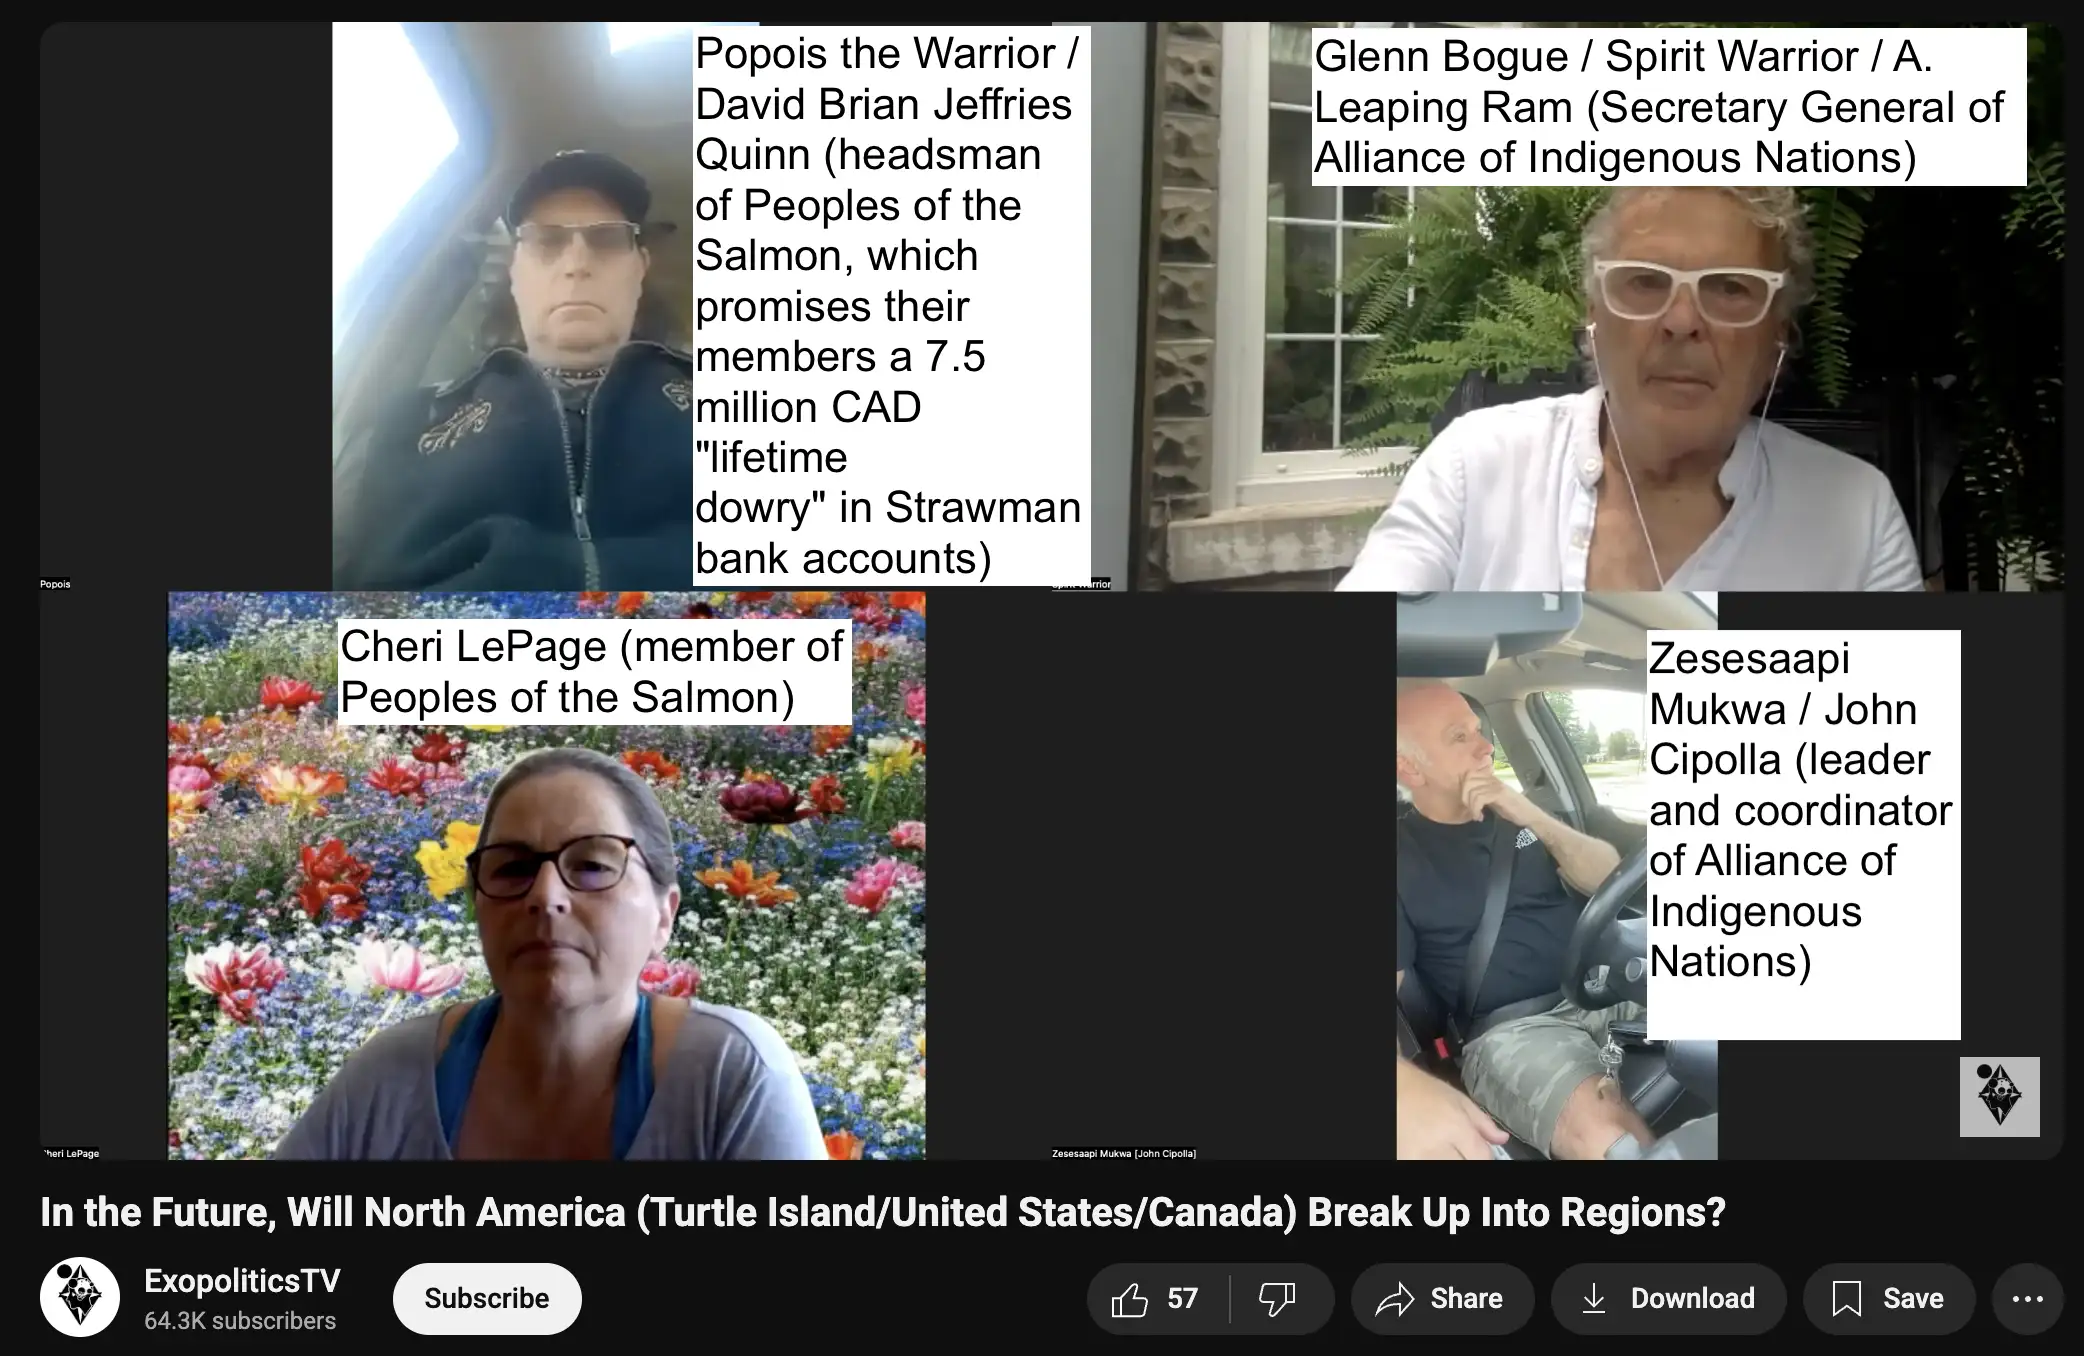
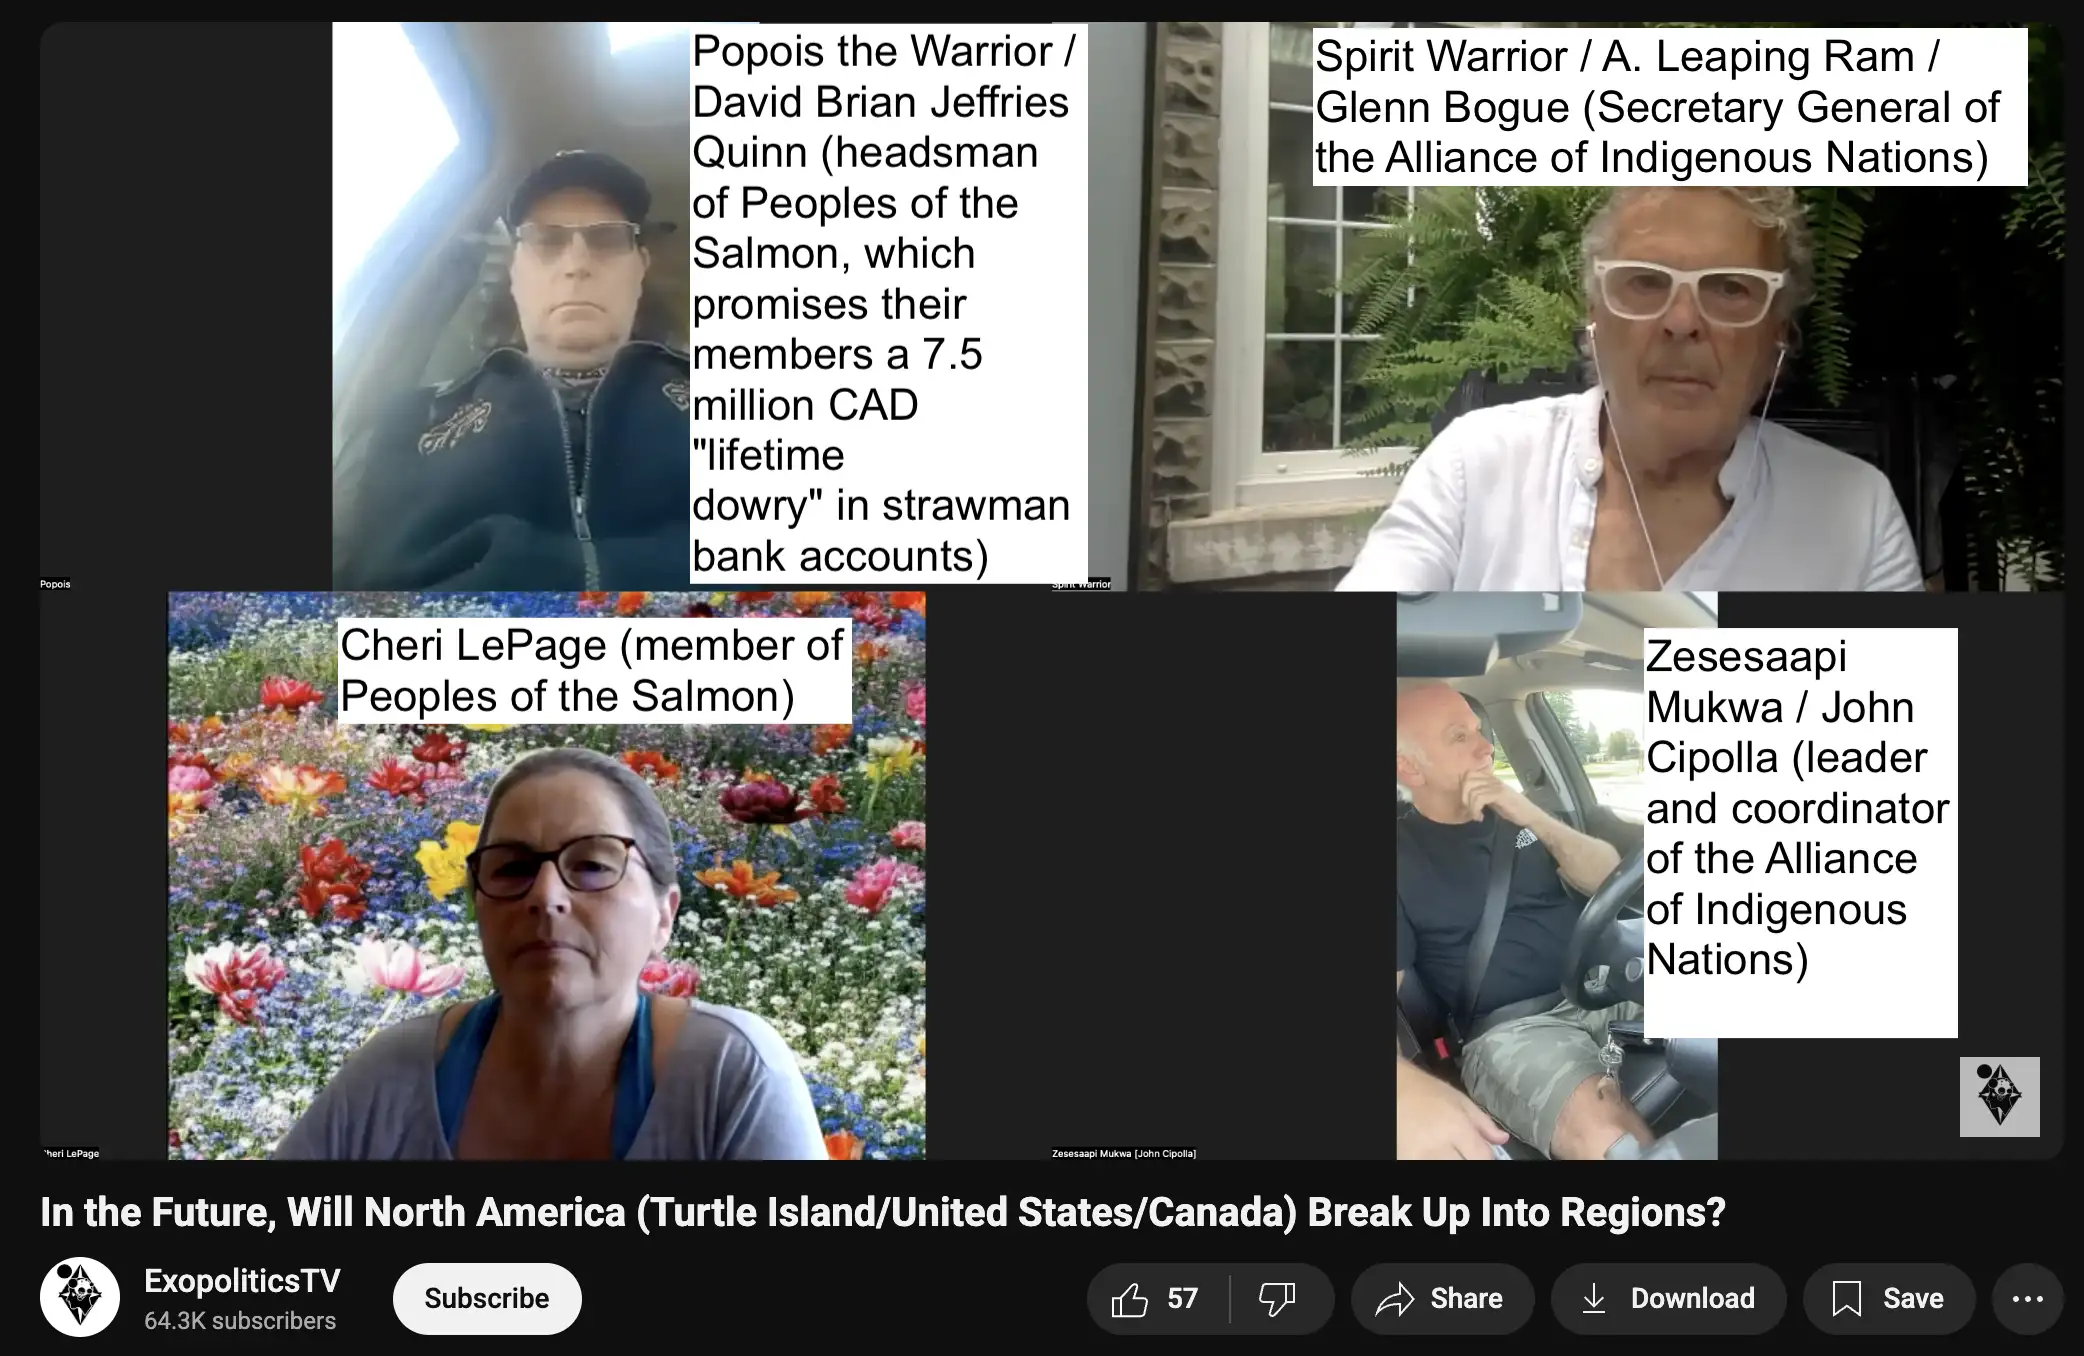
a

diff --git a/clot2.html b/clot2.html
@@ -3012,20 +3012,30 @@ mass destruction"</span>:
 <div>
 <img src=i/clot-ain-1.png width=600>
 </div>
-<p>The declaration by AIN sounded similar to Sansone's court case in
-Florida, because it featured expert opinions by Francis Boyle, Ana
-Mihalcea, Andrew Zywiec, Paul Alexander, and Rima Leibow, who all also
-provided testimony to Sansone's case. 3 out of 11 pages of the
-declaration were dedicated to the expert opinion of Ana Mihalcea, who
-said that vaccines contain quantum dots, nanorobots, microrobots, and
-hydrogel. Andrew Zywiec was called a <span class="quote">"tribal
-practicioner"</span> in the declaration.</p>
-<p>There was no author listed for the declaration, but I suspect it was
-written by Joe Sansone. The declaration was signed by <span
-class="quote">"A. Leaping Ram"</span> and by two other people whose
-names were not legible:</p>
+<p>Sansone wrote that the Alliance of Indigenous Nations International
+Tribunal issued the order <span class="quote">"after reviewing hundreds
+of pages of evidence from my current case, including scientific papers
+and legal briefs filed in the Florida court system, as well other
+scientific papers"</span>.
+[<a href=https://www.josephsansone.com/p/exclusive-breaking-news-alliance>https://www.josephsansone.com/p/exclusive-breaking-news-alliance</a>]</p>
+<p>The declaration by AIN looks similar to the documents in Sansone's
+court case in Florida, because it features expert opinions by Francis
+Boyle, Ana Mihalcea, Andrew Zywiec (who they called a <span
+class="quote">"tribal practicioner"</span>), Paul Alexander, and Rima
+Laibow, who all provided testimony to Sansone's case. 3 out of 11 pages
+of the declaration were dedicated to the expert opinion of Ana Mihalcea,
+who said that vaccines contain quantum dots, nanorobots, microrobots,
+and hydrogel. There was no author listed for the declaration, but I
+suspect one of its authors was Joe Sansone.</p>
+<p>The declaration was signed by <span class="quote">"A. Leaping
+Ram"</span> and by two other people whose names were not legible:</p>
 <div>
 <img src=i/clot-ain-2.png width=600>
+</div>
+<p>You can tell the declaration is the real deal, because it featured
+this seal by <span class="quote">"A. Leaping Ram"</span>:</p>
+<div>
+<img src=i/clot-ain-9.webp width=200>
 </div>
 <p>A Leaping Ram is a sovereign citizenship guru called Glenn Bogue, who
 is also known as <span class="quote">"Spirit Warrior"</span>. He is a
@@ -3083,11 +3093,11 @@ on consignment, while allegedly demanding 25% of the <span
 class="quote">'winnings'</span> for himself. June 2017, the Law Society
 suspended Bogue for <span class="quote">'vexatious conduct'</span>!</p>
 </blockquote>
-<p>John Cipolla has been called the <span
-class="quote">"prosecutor"</span> of AIN and <span class="quote">"leader
-and coordinator"</span> of AIN. He started calling himself Zesesaapi
-Mukwa after he was adopted by this guy, who calls himself the Grand
-Chief Wabiska Mukwa:
+<p>John Cipolla was called the <span class="quote">"prosecutor"</span>
+of AIN by one source and the <span class="quote">"leader and
+coordinator"</span> of AIN by another source. He took up the Indian name
+Zesesaapi Mukwa after he was adopted by this guy, who calls himself the
+Grand Chief Wabiska Mukwa:
 [<a href=https://allianceofindigenousnations.org/chief-wabiska-mukwas-important-message/>https://allianceofindigenousnations.org/chief-wabiska-mukwas-important-message/</a>]</p>
 <div>
 <img src=i/clot-ain-5.webp width=700>
@@ -3115,21 +3125,20 @@ Into Many Regions?"</span>, and he said: <span class="quote">"Spirit
 Warrior - Glenn Bogue, the Attorney General of the Alliance of
 Indigenous Nations - has contributed a part - uh, extended part - to the
 book."</span></p>
-<p>At time 30:49, A Leaping Ram started his presentation by saying:
-<span class="quote">"Those who have studied the history of our solar
-system would quickly, uh, consede the fact that the Earth used to be
-outside of Mars - between Mars and Jupiter - because of something called
-Bode's mathematical law."</span> And he said that at the time the earth
-<span class="quote">"shone like a blue jewel, uh, to many many
-different, uh, you know, ships going by, et cetera, from other planets,
-other solar systems."</span> He said the name for the earth in ancient
-languages was Gop. And he said that the earth moved to its current
-location around 400,000 BC, because one of the moons of Planet X crashed
-into the earth. He said that before it the west coast of Canada and the
-east coast of Europe used to be part of a single continent called
-Pangea, which was populated by the Solutrean people. (Which I presume is
-meant to be his explanation for why there would be white indigenous
-people like himself on the west coast of Canada.)</p>
+<p>At time 30:49, A Leaping Ram said: <span class="quote">"Those who
+have studied the history of our solar system would quickly, uh, consede
+the fact that the Earth used to be outside of Mars - between Mars and
+Jupiter - because of something called Bode's mathematical law."</span>
+And he said that at the time the earth <span class="quote">"shone like a
+blue jewel, uh, to many many different, uh, you know, ships going by, et
+cetera, from other planets, other solar systems."</span> He said the
+name for the earth in ancient languages was Gop. And he said that the
+earth moved to its current location around 400,000 BC, because one of
+the moons of Planet X crashed into the earth. He said that earlier the
+east coast of Canada and the west coast of Europe used to be part of a
+single continent called Pangea, which was populated by the Solutrean
+people. (Which I presume is meant explain why there would be white
+indigenous people like himself on the west coast of Canada.)</p>
 <p>At time 39:18, A Leaping Ram said: <span class="quote">"This is the
 ancient indigenous knowledge that - number one, a female scientist
 changed the ovum of an ape into human beings by putting in a sperm from
@@ -3149,25 +3158,25 @@ the tribunal, we'll be inviting each of the four of you - and I'm
 putting this - to be attendees at The First International Earth
 Conference on Extraterrestrial Genocide, and Successful and Mutually
 Advantageous Planetary Rescue, Positive Alliance, and Integration with
-Homo Martius Terris. They are the human martian civilization. And it's
+Homo Martis Terris. They are the human martian civilization. And it's
 all set out there. We're in the process of arranging an international
 conference, uh, to ally the positive human civilization with the
 positive martian civilization. We have the information that there are
-about 1 million, uh, Homo Martius Terris, or human martian civilization
+about 1 million, uh, Homo Martis Terris, or human martian civilization
 members. They're our genetic cousins. They're a bit more advanced than
 earthling humans, and a bit more ethical, living under the surface of
 Mars. And that's a conference, and I'll be sending each of you
 invitations."</span></p>
 <p>The conference was part of Webre's <span class="quote">"Natural and
 Common Law Tribunal for Public Health &amp; Justice"</span>. Webre's
-source that there are about one million members of Homo Martius Terrus
-was Andrew D. Basiago, who is supposed to have met one of the Martians
-when he traveled in time to 1970:
+source that there are about one million Martians of the race Homo Martis
+Terris was Andrew Basiago, who is supposed to have met one of the
+Martians when he traveled back in time to 1970:
 [<a href=https://web.archive.org/web/20250207012549/https://exopolitics.blogs.com/international_criminal_co/2024/06/first-international-earth-conference-on-extraterrestrial-genocide-.html>https://web.archive.org/web/20250207012549/https://exopolitics.blogs.com/international_criminal_co/2024/06/first-international-earth-conference-on-extraterrestrial-genocide-.html</a>]</p>
 <div>
 <img src=i/clot-ain-8.webp width=650>
 </div>
-<p>Alfred Lambremont Webre claims that the book he wrote with A Leaping
+<p>Alfred Lambremont Webre says that the book he wrote with A Leaping
 Ram is based on information leaked from a DARPA-CIA time travel program:
 [<a href=https://www.amazon.com/Future-United-States-America-Regions-ebook/dp/B0C87CRKTL>https://www.amazon.com/Future-United-States-America-Regions-ebook/dp/B0C87CRKTL</a>]</p>
 <div>
@@ -3203,8 +3212,10 @@ hominins called the <em>Homo capensis</em>, but she later renounced the
 theory, and she started to say it was disinformation that was fed to her
 by Edward Spencer and Alfred Lambremont Weber.
 [<a href=https://www.youtube.com/watch?v=F2KS1-_qiBQ&t=9m9s>https://www.youtube.com/watch?v=F2KS1-_qiBQ&amp;t=9m9s</a>,
-<a href=https://www.scribd.com/document/431594046/Jews-Chamisn-Beginning-Israel2>https://www.scribd.com/document/431594046/Jews-Chamisn-Beginning-Israel2</a>]</p>
-<p>AIN says that their goal is to cocreate a <span class="quote">"New
+<a href=https://www.scribd.com/document/431594046/Jews-Chamisn-Beginning-Israel2>https://www.scribd.com/document/431594046/Jews-Chamisn-Beginning-Israel2</a>]
+The <em>Homo capensis</em> theory is reminiscent of Weber's theory that
+there is a race of Martian humans called Homo Martis Terris.</p>
+<p>AIN says that their goal is to build a <span class="quote">"New
 Earth, a better and Spiritually Enlightened future!"</span>
 [<a href=https://allianceofindigenousnations.org>https://allianceofindigenousnations.org</a>]
 It reminded me of Sacha Stone's various ventures, like the New Earth
@@ -3212,14 +3223,23 @@ Project, New Earth Haven, New Earth Trust, New Earth Treaty, New Earth
 University, New Earth Exchange, New Earth Retreats, New Earth Nation,
 and so on.
 [<a href=https://totaldisclosure.net/deep-dive/sacha-stone-ii/>https://totaldisclosure.net/deep-dive/sacha-stone-ii/</a>]
-Alfred Lambremont Webre was also part of Sacha Stone's fake
-international court larping operation called the International Tribunal
-for Natural Justice. During an ITNJ hearing in April 2020 where Webre
-played the role of a judge, he declared that SARS-CoV-2 was not a virus
-but an exosome, which meant that all lockdown orders were null and void
-under national and common law.
+Alfred Lambremont Webre was also part of Sacha Stone's international
+court larping operation called the International Tribunal for Natural
+Justice. During an ITNJ hearing in April 2020 where Webre played the
+role of a judge, he declared that SARS-CoV-2 was not a virus but an
+exosome, which meant that all lockdown orders were null and void under
+both national and common law.
 [<a href=https://commission.itnj.org/2020/04/20/emergency-tribunal-hearing-corona-pandemic-and-the-planetary-shutdown-3rd-sitting/>https://commission.itnj.org/2020/04/20/emergency-tribunal-hearing-corona-pandemic-and-the-planetary-shutdown-3rd-sitting/</a>,
-time 7:28]</p>
+time 7:28] The way Glenn Bogue is called the <span
+class="quote">"Secretary General"</span> of AIN reminded me of the fake
+intergovernmental organization called Intergovernmental Renewable Energy
+Organization, whose leader had the impressive-sounding title of <span
+class="quote">"Secretary General"</span>. The so-called <span
+class="quote">"secretariat"</span> of the organization also included the
+<span class="quote">"Director-General of Europe"</span> Sacha Stone and
+<span class="quote">"Chairperson of the Economic Innovations
+Committee"</span> David Martin.
+[<a href=https://web.archive.org/web/20100601012359/http://www.ireoigo.org/index.php?pageID=team&ref=sec>https://web.archive.org/web/20100601012359/http://www.ireoigo.org/index.php?pageID=team&amp;ref=sec</a>]</p>
 <p>An article about the sovereign citizenship movement in Canada said:
 [<a href=https://freemandelusion.com/wp-content/uploads/2023/01/New-Hosts-for-an-Old-Disease-History-of-the-Organized-Pseudolegal-Commercial-Argument-Phenomenon-in-Canada-Part-III.pdf>https://freemandelusion.com/wp-content/uploads/2023/01/New-Hosts-for-an-Old-Disease-History-of-the-Organized-Pseudolegal-Commercial-Argument-Phenomenon-in-Canada-Part-III.pdf</a>]</p>
 <blockquote>
